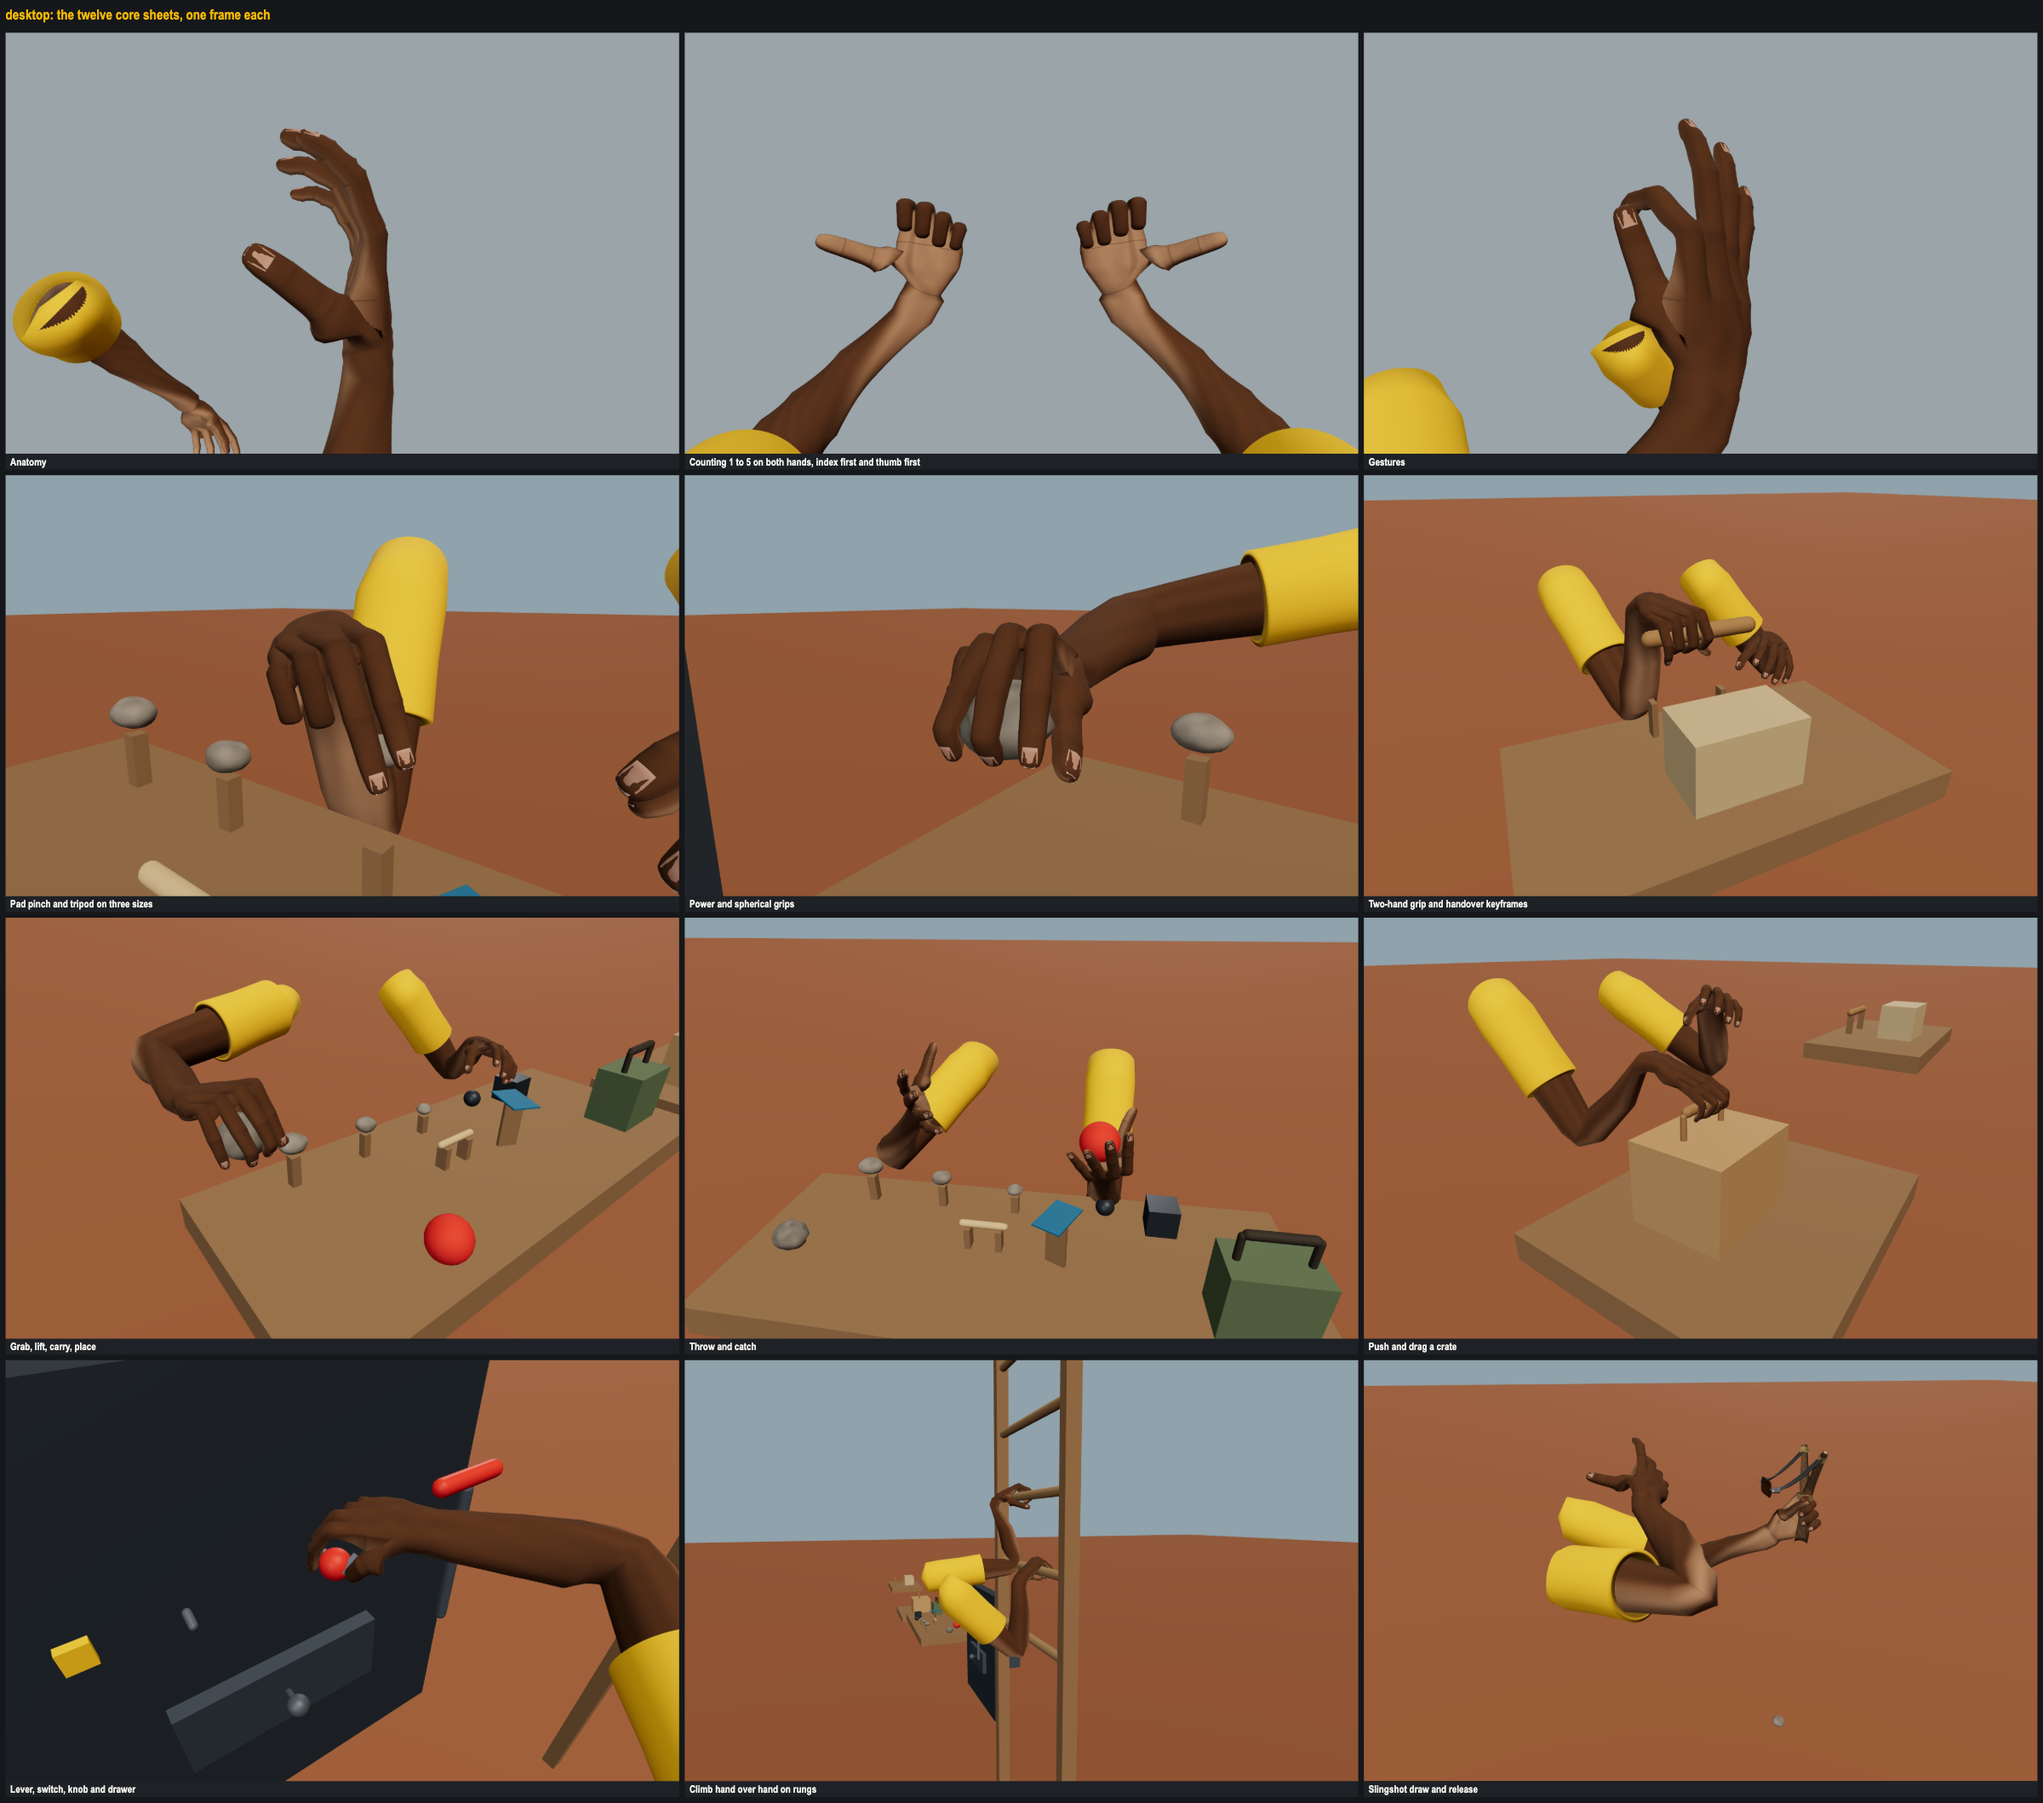
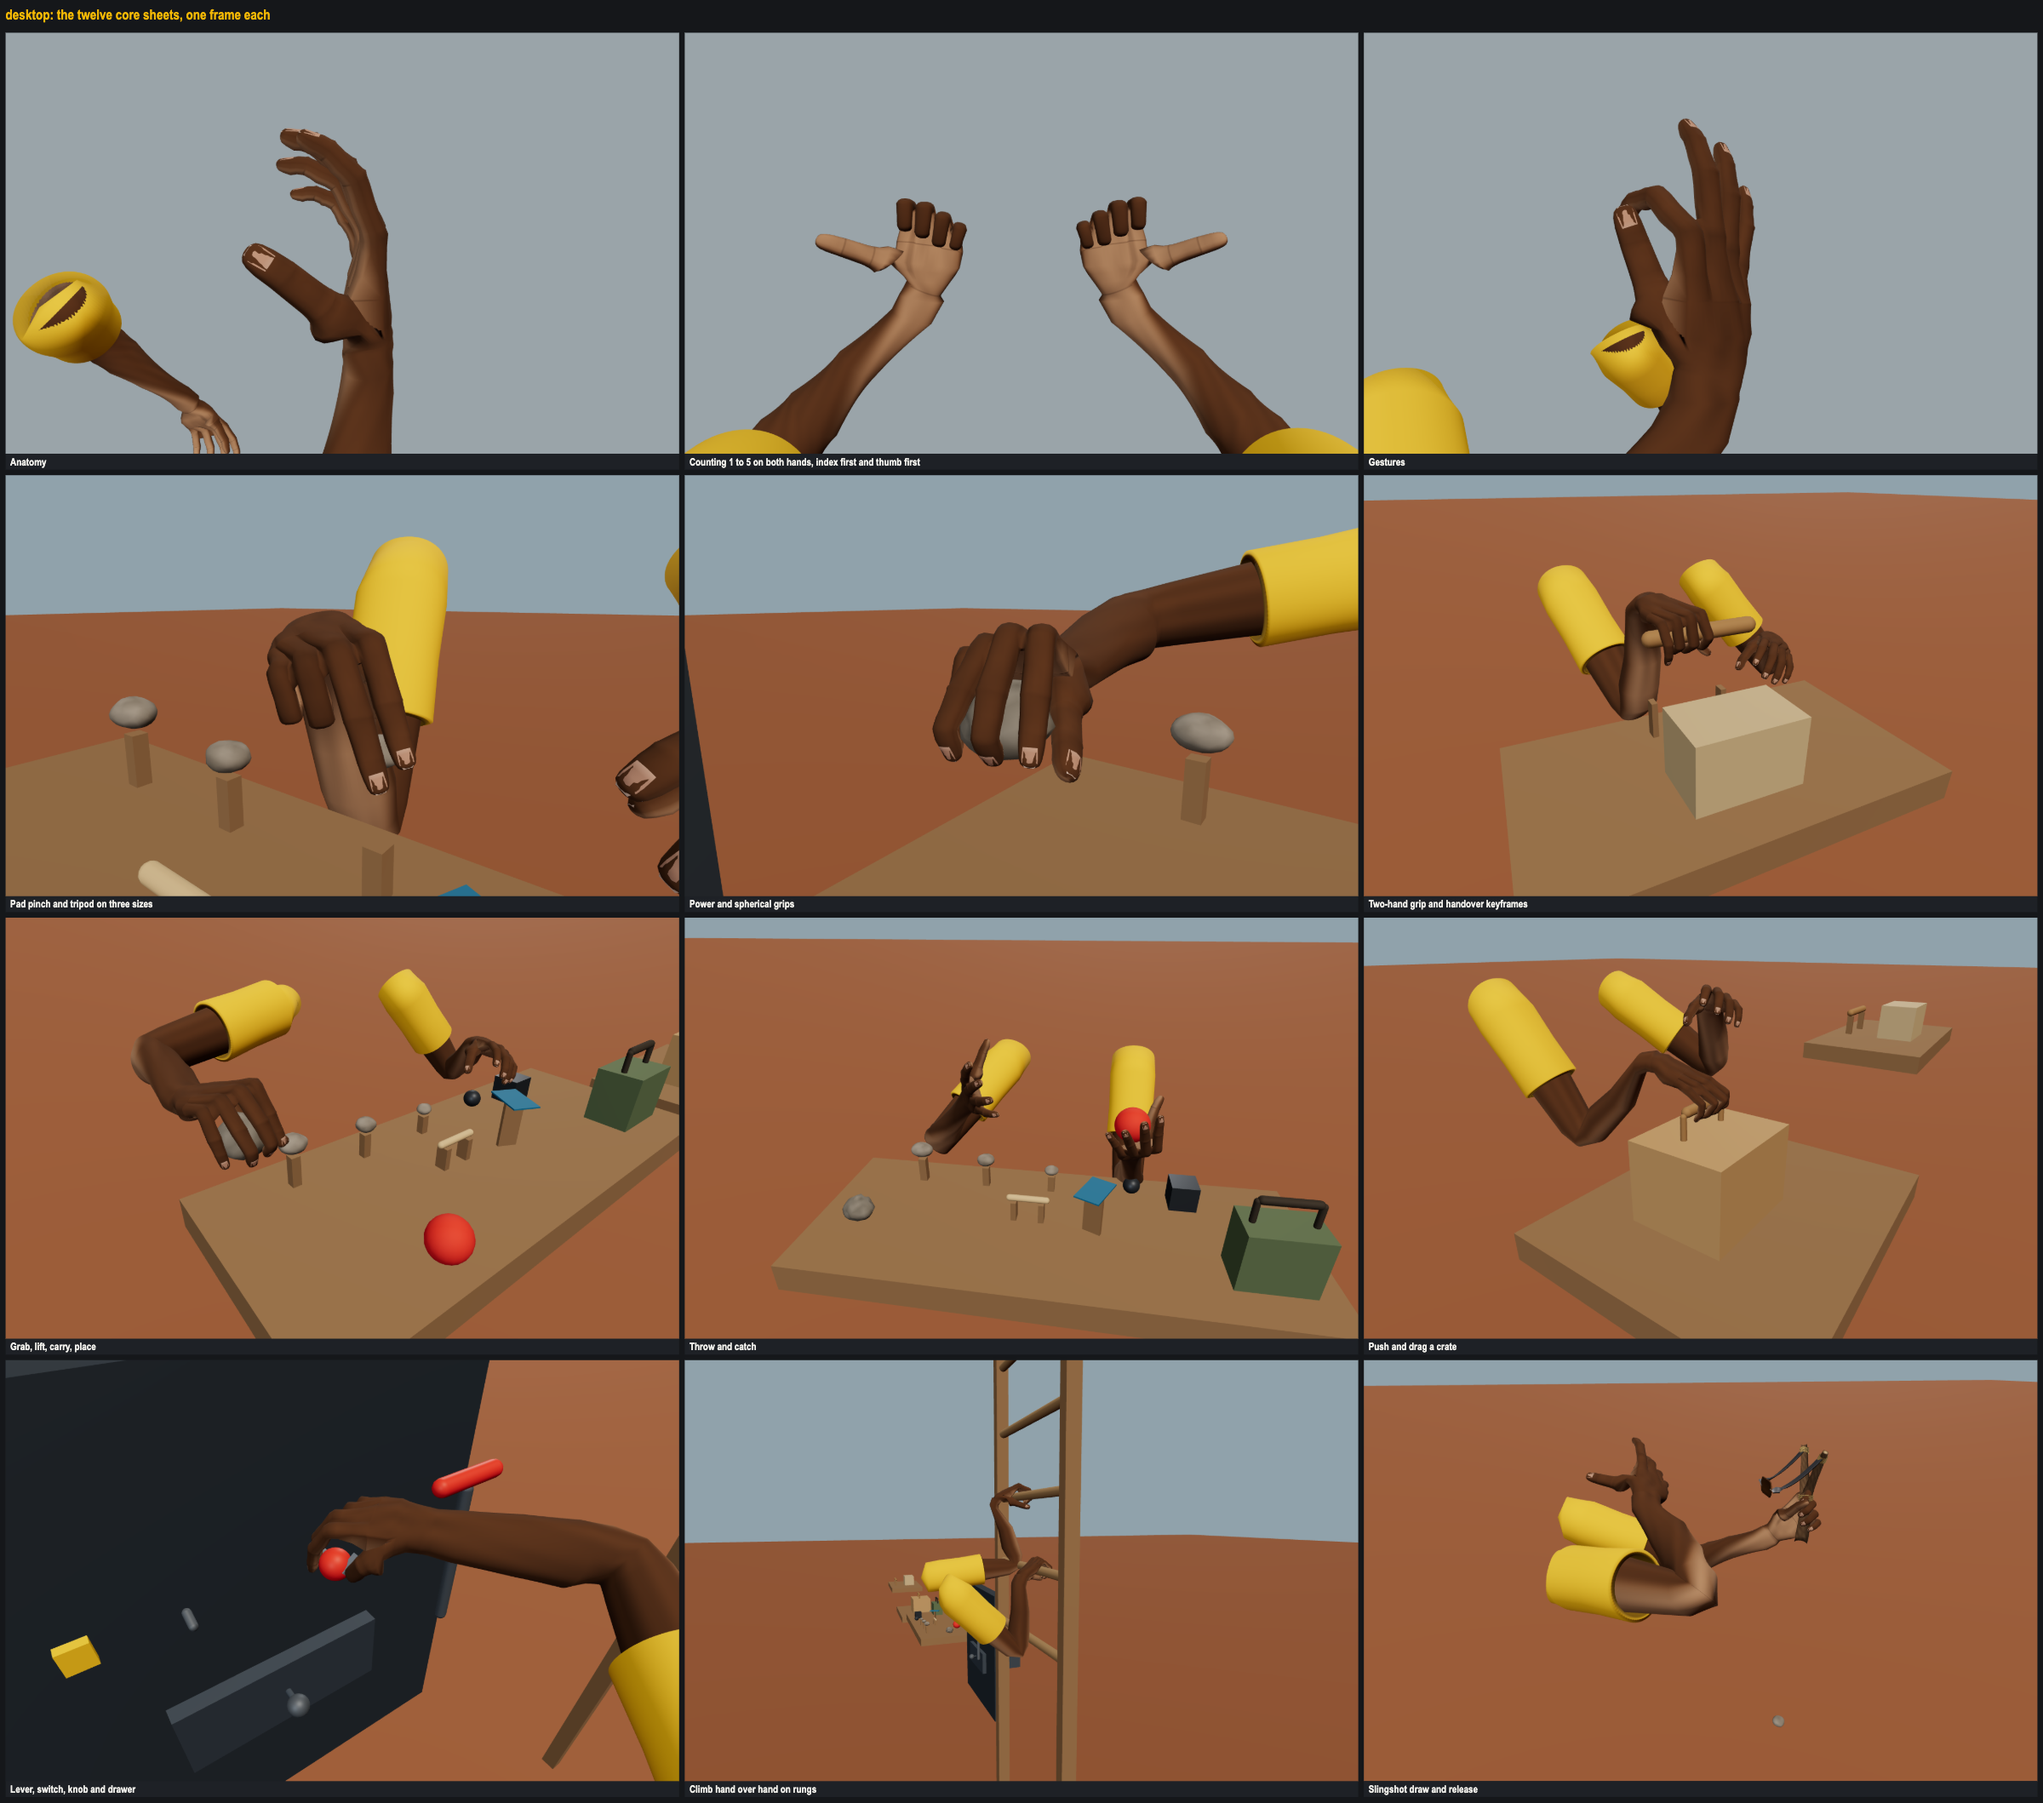
Fix climb 9.30 s: the free arm folded back while the body rose
11 climb, all viewports, climb 9.30 s: after letting go, the free hand's
target stayed at the rung it left while the body pulled up, so its elbow
folded back under it and the sleeve stood upright between level frames.
The free hand now rises with the body before it reaches for the next
rung. The matching minors come out of docs/HANDS_MINORS.md.

Changed region(s): [[0.3125, 0.5609, 0.6562, 0.7479]]

diff --git a/app/scenes/capabilities.js b/app/scenes/capabilities.js
@@ -442,12 +442,14 @@ function climbKeys() {
   for (const [s, i] of moves) {
     // Rise until the next rung is a comfortable reach above the shoulder,
     // the other hand's rung then level with it.
+    const from = y;
     y = 0.01 + 0.26 * i;
     const to = y;
     // The lower hand lets go (the other holds the rung above), the body
-    // pulls up on that hand, and the free hand goes up past it.
+    // pulls up on that hand, and the free hand rises with it (left where it
+    // was, its elbow would fold back under it), then goes up past it.
     keys.push([t, (c) => c.hands.release(s)]);
-    keys.push([t + 0.6, (c) => c.hands.moveBody([c.X, to, 0], 0.8)]);
+    keys.push([t + 0.6, (c) => { c.hands.moveBody([c.X, to, 0], 0.8); c.nudge(s, [0, to - from, 0]); }]);
     keys.push([t + 1.5, reachRung(s, i, 0.05)]);
     keys.push([t + 2.1, (c) => (c.hands.arrived(s) ? closeRung(s, i)(c) : WAIT)]);
     keys.push([t + 2.6, (c) => (c.hands.arrived(s) ? c.hands.grasp(s, rung(c, i), 'powerCylinder') : WAIT)]);

diff --git a/docs/HANDS_MINORS.md b/docs/HANDS_MINORS.md
@@ -30,11 +30,9 @@ Cosmetic nits from the gallery review, not blocking this run. Each line names th
 - 08 throw and catch: the ball is in the air for only about two frames of the strip.
 - 09 push and drag: the pushing hand is seen edge on, its fingertips standing above the crate outline; the idle hand stays curled against its sleeve.
 - 10 props: the switch toggle's change of state is small at sheet scale.
-- 11 climb: the sleeve top looks crumpled when it turns upright at 9.30 s.
 - 12 slingshot: the stone stays on the ground, so the pouch is drawn empty; the fork turns a lot at release 1.00 s.
 - 03 gestures: beckon and wave are motions, so as stills they read weakly (a half claw, an open hand).
 - 05 power and spherical: the rock frame is taken from the grab, carry and place scenario, so its label names that scenario.
 - 07 grab, carry, place: the idle hand rests close to the small iron pieces throughout.
 - 09 push and drag: the idle hand hovers as a loose fist above the crate in every frame.
 - 10 props (phone portrait): the idle left hand is large and cut by the corner in the knob frames.
-- 11 climb: at 9.30 s one sleeve stands upright between the level poses either side of it.
